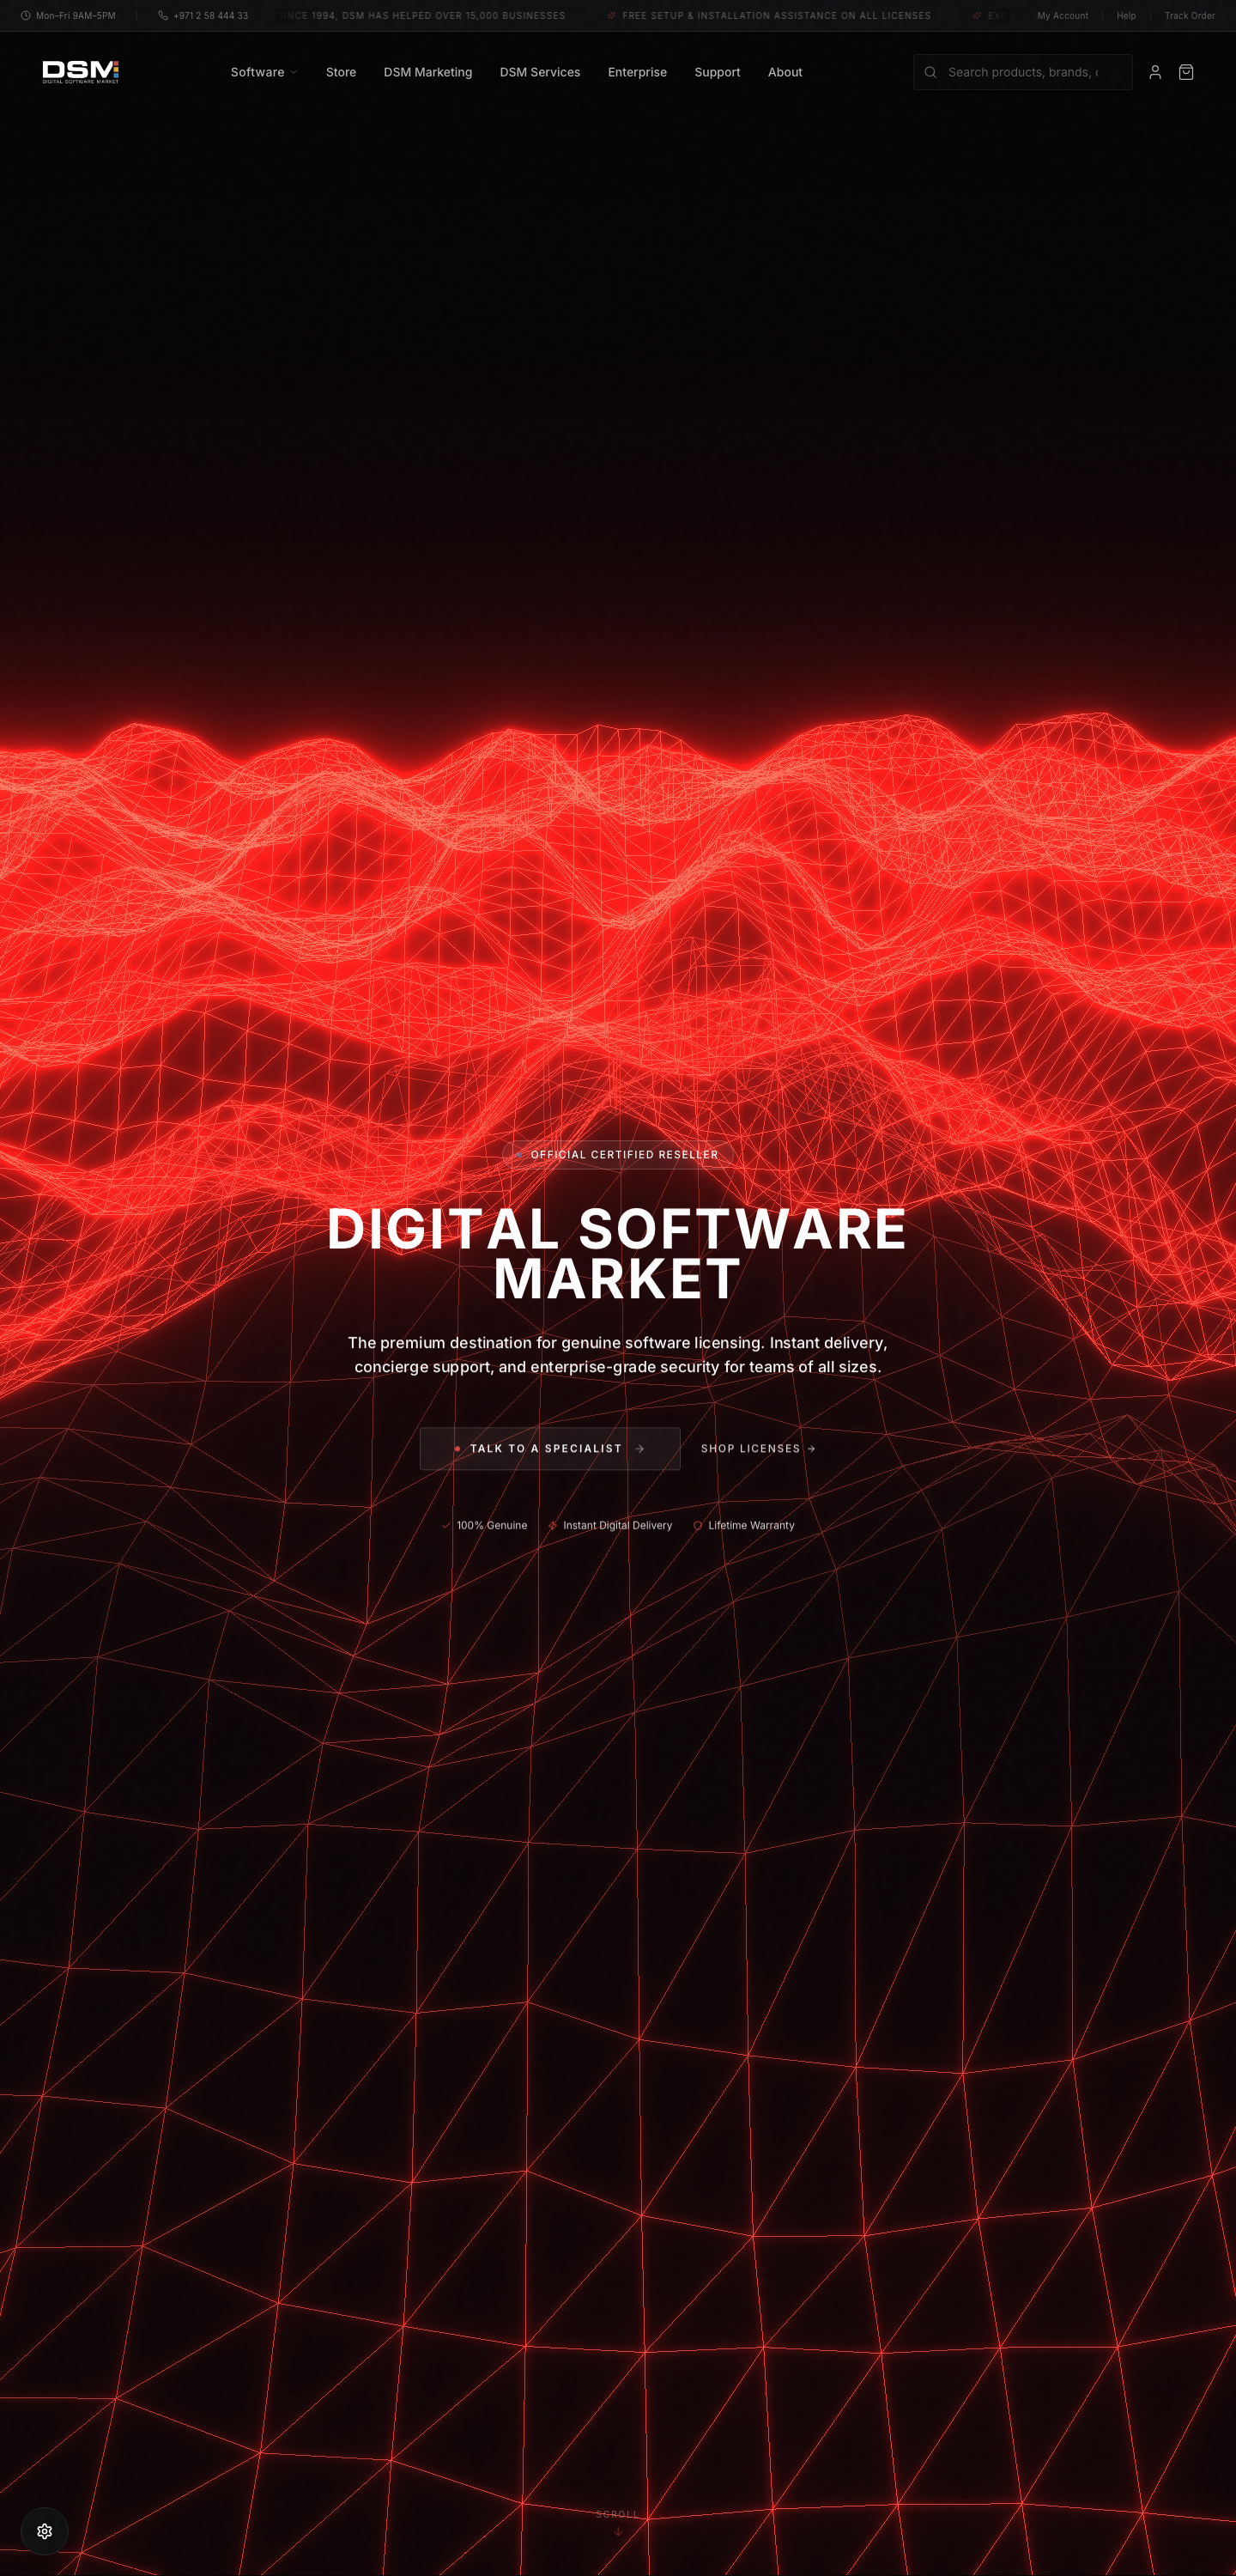
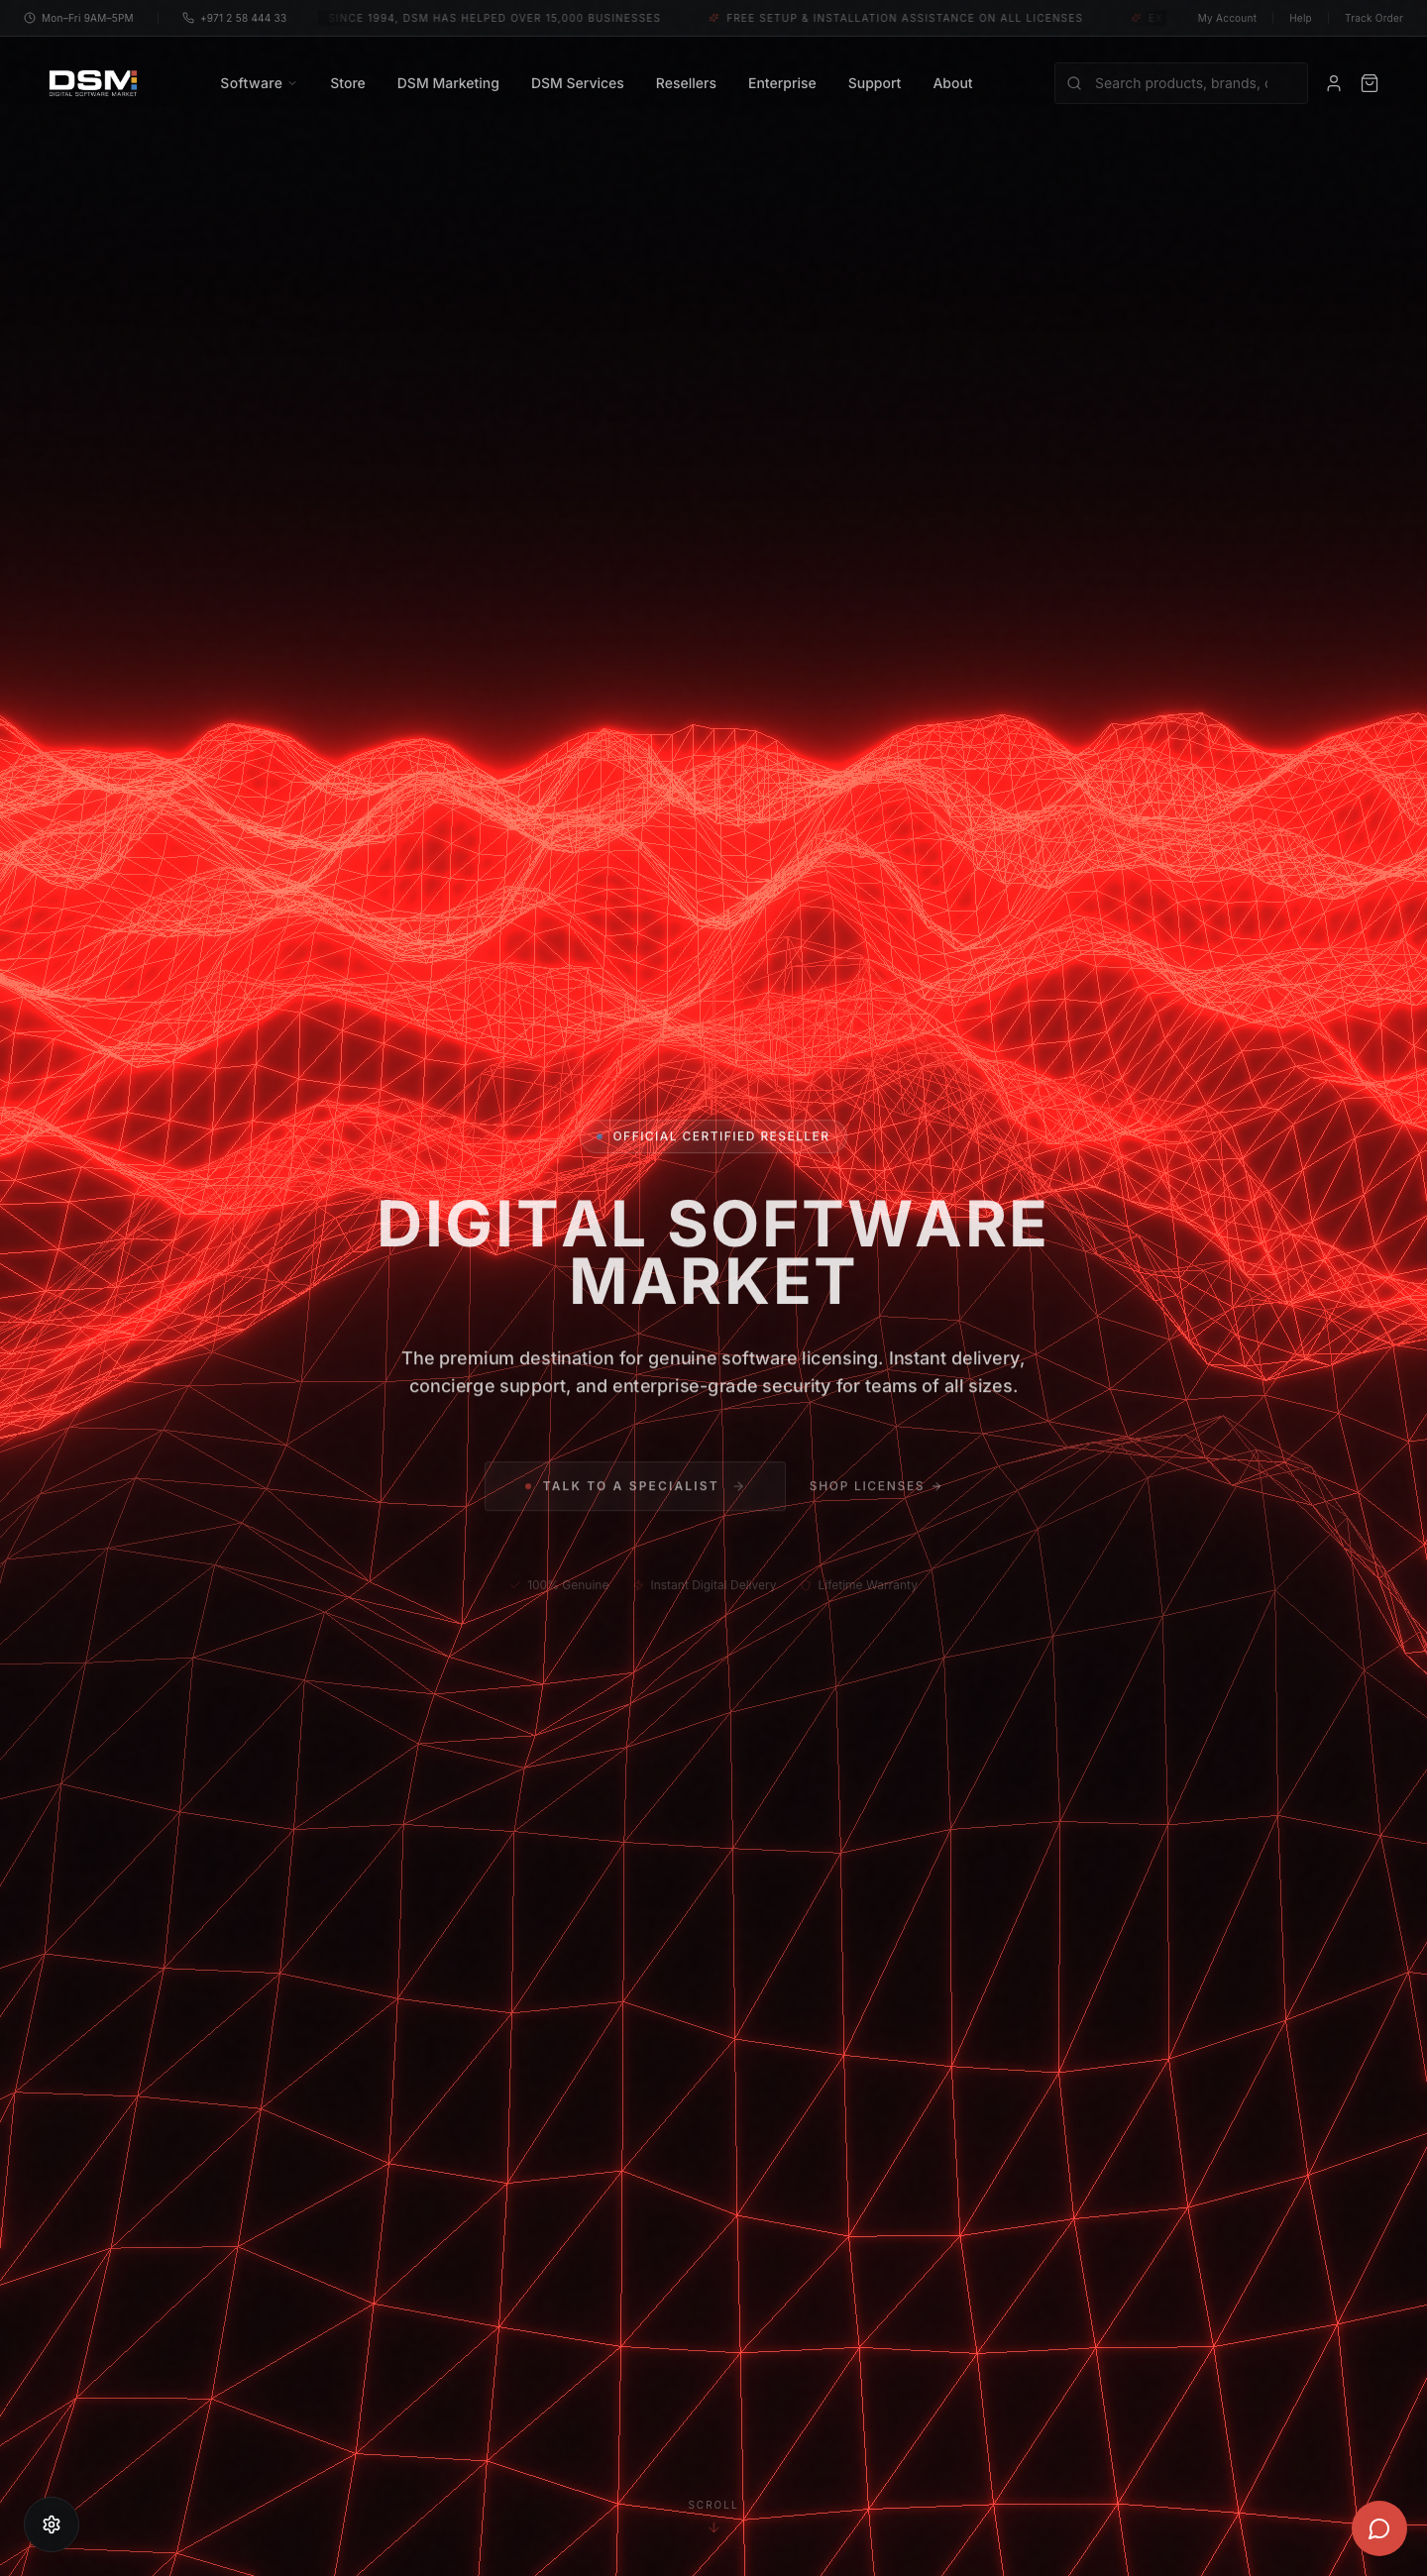
admin: VPS health timeout 2.5s->8s (stop false DOWN under load) + heatmap page shots

diff --git a/admin-app/src/lib/opsHealth.ts b/admin-app/src/lib/opsHealth.ts
@@ -47,7 +47,7 @@ export function buildProbes(cfg: AppConfig): Probe[] {
       label: "VPS Flask API",
       kind: "unstable",
       target: "/ai/status",
-      run: () => httpGet(VPS_STATUS_URL, { timeoutMs: 2500 }),
+      run: () => httpGet(VPS_STATUS_URL, { timeoutMs: 8000 }),
     },
     {
       key: "codex",

diff --git a/admin-app/src/views/HealthBoard.tsx b/admin-app/src/views/HealthBoard.tsx
@@ -92,7 +92,7 @@ function buildProbes(cfg: AppConfig): ProbeDef[] {
       label: "VPS Flask API",
       kind: "unstable",
       target: VPS_STATUS_URL,
-      run: () => httpGet(VPS_STATUS_URL, { timeoutMs: 2500 }),
+      run: () => httpGet(VPS_STATUS_URL, { timeoutMs: 8000 }),
     },
     {
       key: "codex",